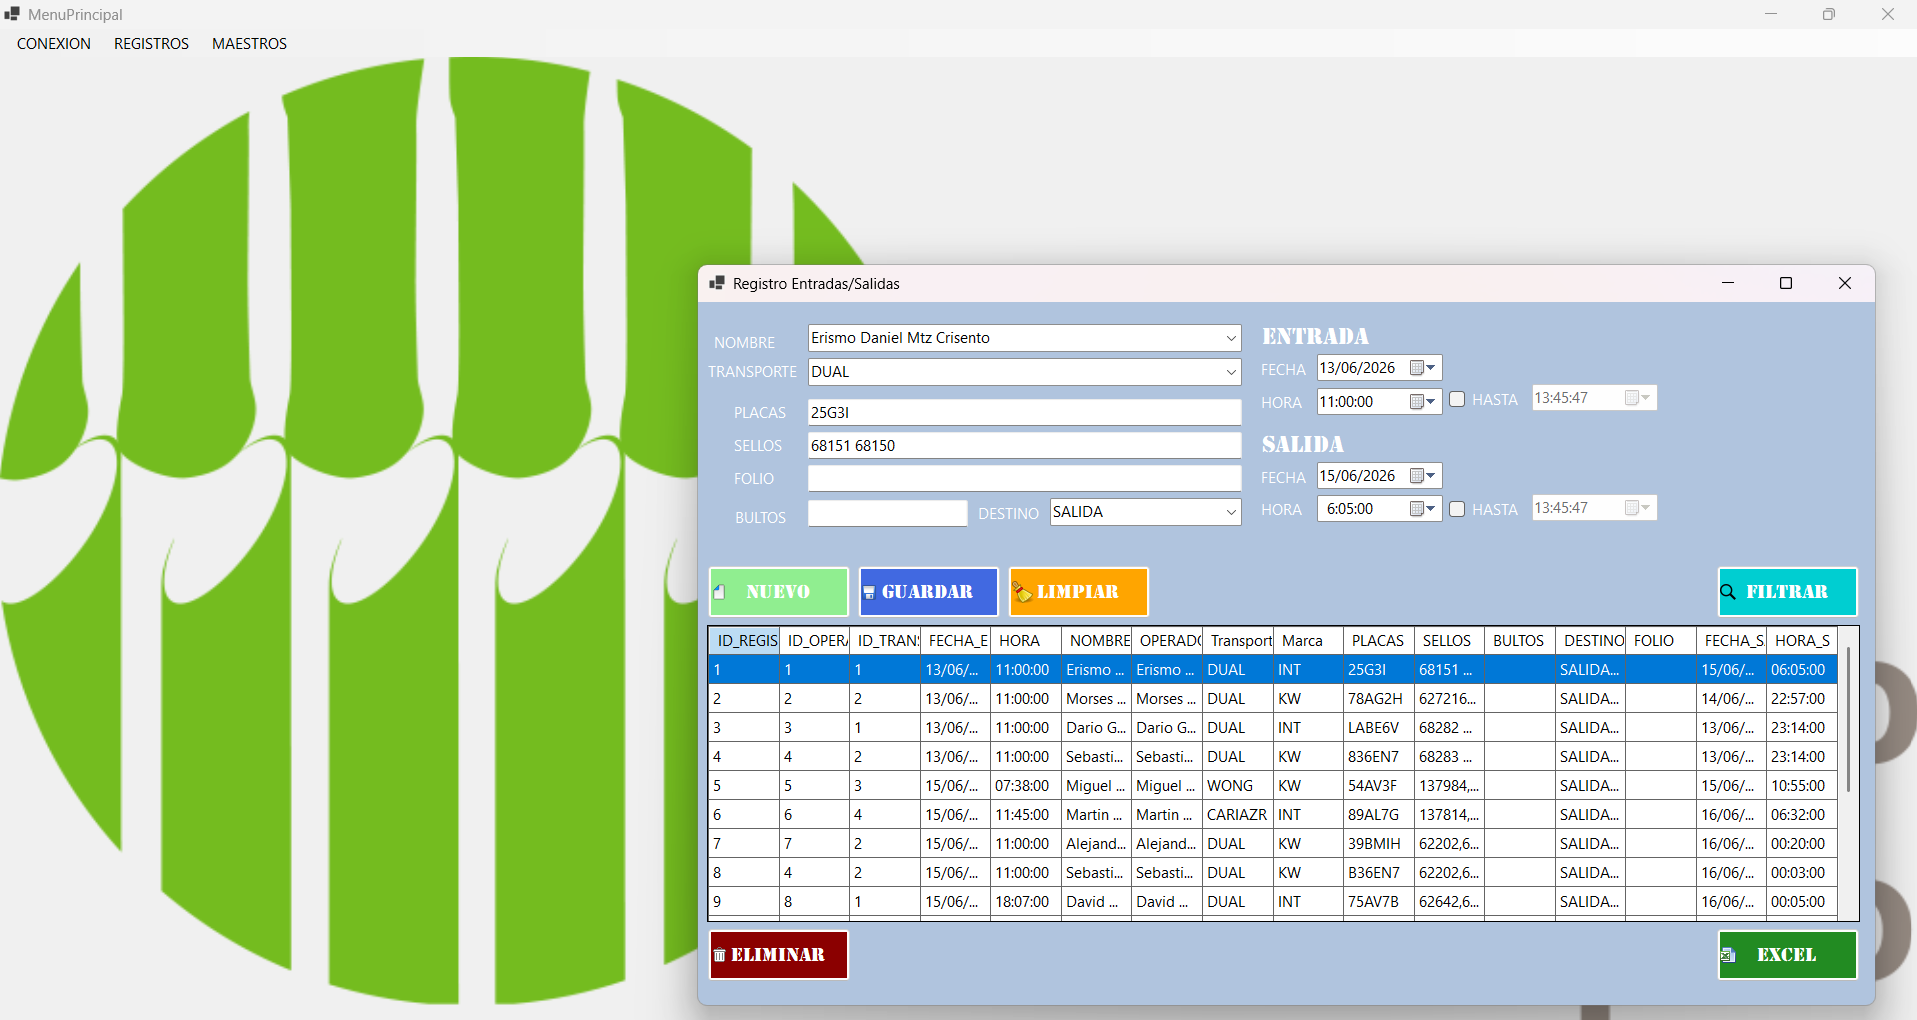
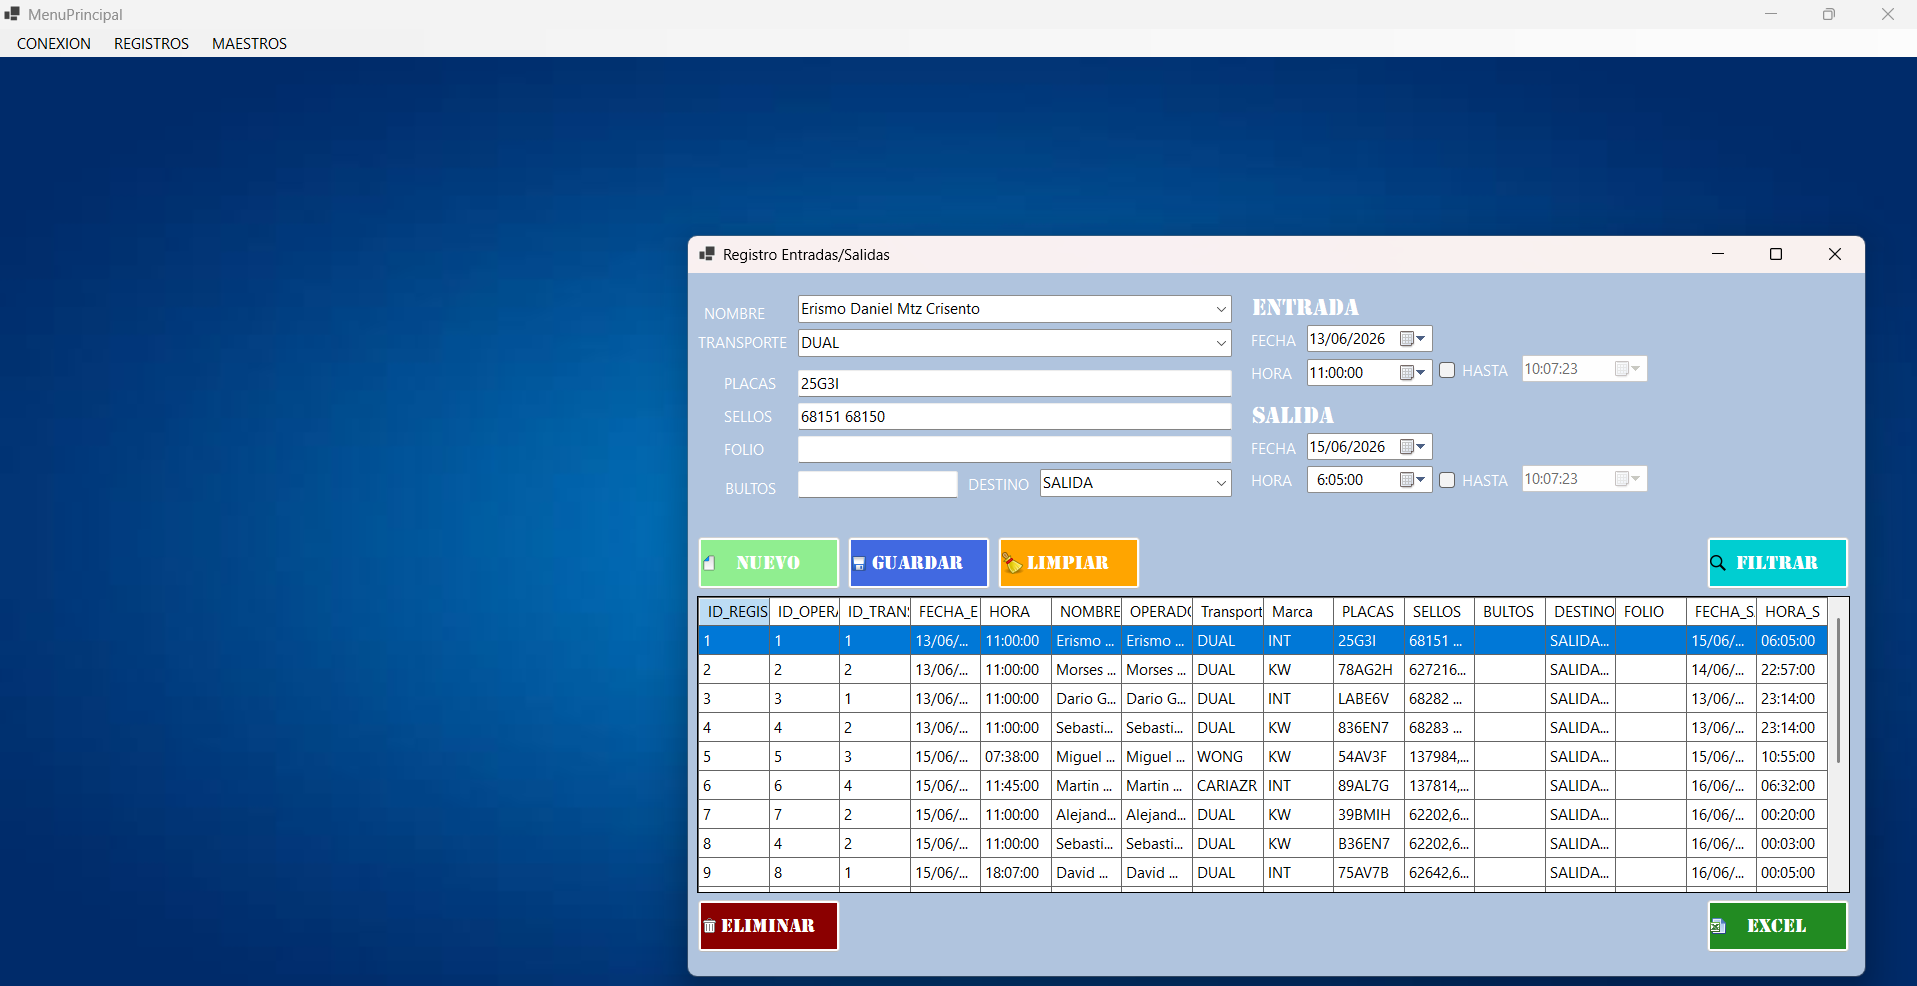
Se cambiaron los proyectos y errores

diff --git a/app/page.tsx b/app/page.tsx
@@ -135,7 +135,7 @@ via-zinc-950
       {/* Hero */}
       <section className="relative z-20 max-w-6xl mx-auto px-8 py-24">
         <h1 className="text-6xl font-sreda">
-          LEONARDO MORENO ALBARRAN
+          LEONMA2006
         </h1>
 
         <div className="flex gap-5 mt-6 text-2xl">
@@ -212,7 +212,7 @@ via-zinc-950
 
         <p className="mt-6 text-xl text-zinc-400 max-w-2xl">
           Soy un estudiante de Ingenieria en Software. Me apasiona demasiado la tecnologia pero sobre
-          todo el reto logico de codigicar, aprendiendo desarrollo web, de software (c++, java) 
+          todo el reto logico de codificar, aprendiendo desarrollo web, de software (c++, java) 
           y uso de base de datos en ambiente logistico empresarial.
           Actualmente la pagina esta en desarrollo mientras voy aprendiendo nuevas tecnologias y herramientas para mejorar mis habilidades.
         </p>
